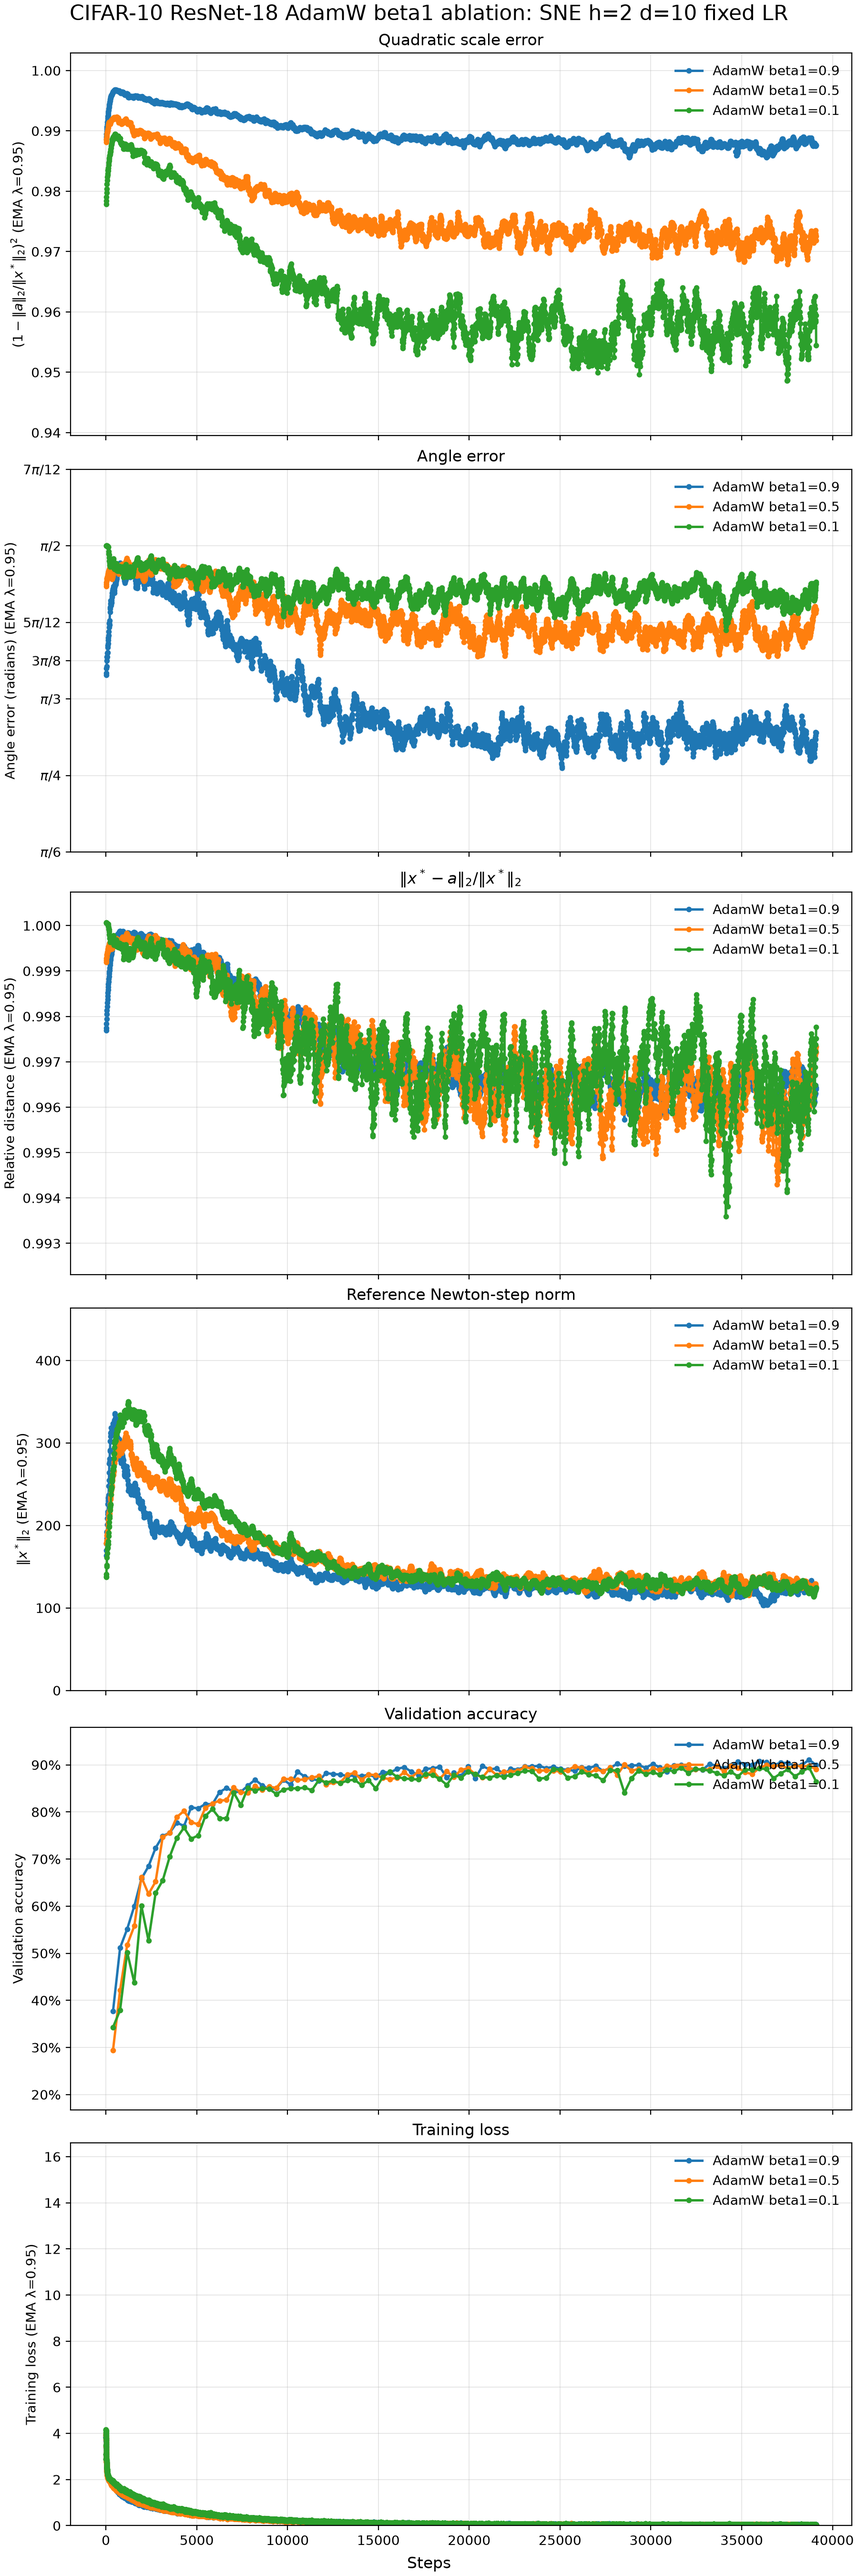
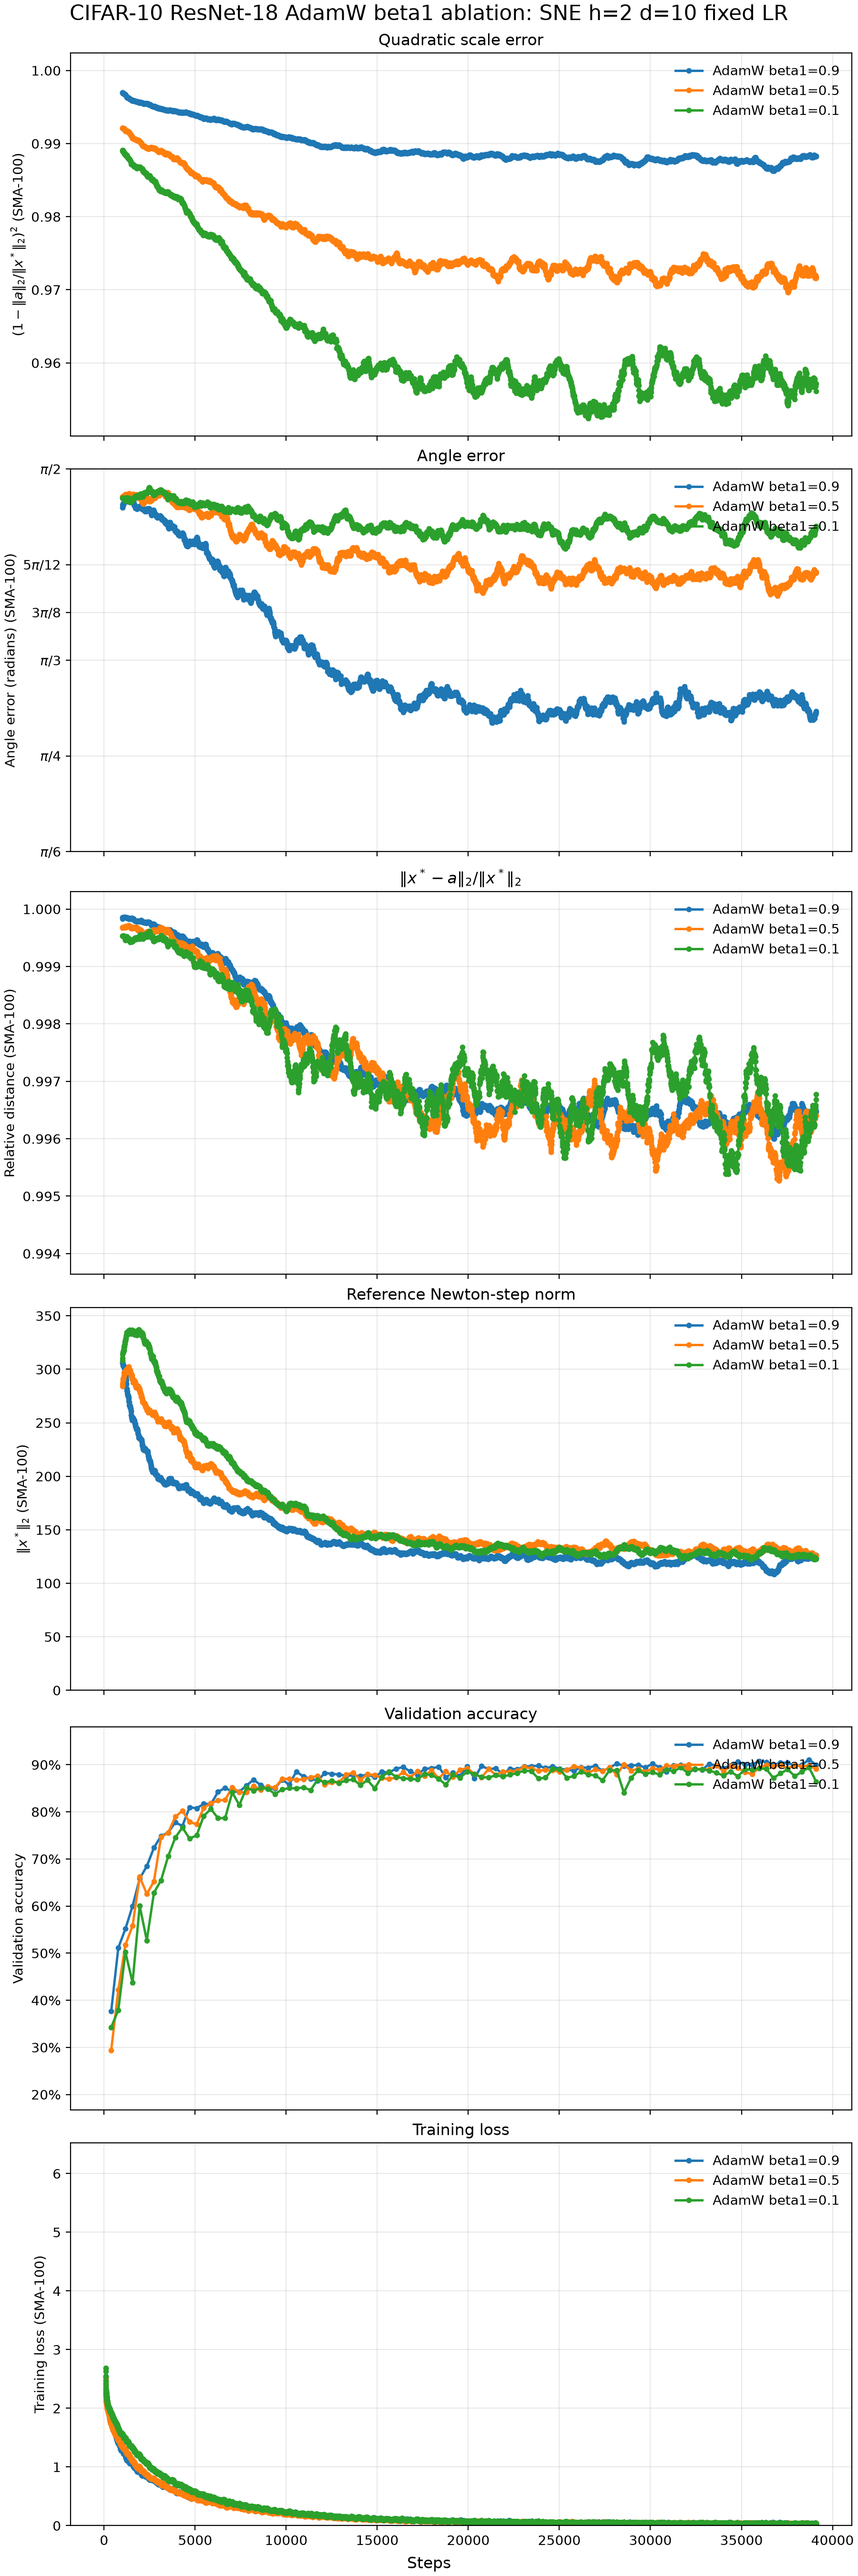
Restore SMA dashboard plots

diff --git a/index.html b/index.html
@@ -127,7 +127,7 @@
             per step and interval \(d=10\), hence sketch size \(m=20\). Training loss
             is recorded every step, the three geometric measurements every ten steps,
             and validation accuracy once per epoch. The geometric and training curves
-            use an EMA with \(\lambda=0.95\); validation remains unsmoothed. Scale is
+            use SMA-100; validation remains unsmoothed. Scale is
             reported exclusively as \((1-\|a\|_2/\|x^*\|_2)^2\).
           </p>
         </header>
@@ -217,7 +217,7 @@
             momentum changes, leaving the auxiliary AdamW path fixed; for AdamW the
             sweep changes \(\beta_1\) while \(\beta_2=0.999\); for SGD it changes the
             conventional momentum coefficient. SNE again uses \(h=2\), \(d=10\), and
-            \(m=20\), with EMA (\(\lambda=0.95\)) applied only to geometry and training loss and raw
+            \(m=20\), with SMA-100 applied only to geometry and training loss and raw
             validation accuracy retained at one observation per epoch.
           </p>
         </header>
@@ -317,7 +317,7 @@
             step, geometry every five steps, and validation cross-entropy over 200
             batches every 250 steps. The model remains in training mode while an RNG
             snapshot replays the forward-pass dropout realization inside estimator
-            closures. Geometry and training use EMA (\(\lambda=0.95\)), validation remains raw, and
+            closures. Geometry and training use SMA-50, validation remains raw, and
             both task losses are shown as perplexity. Scale error is
             \((1-\|a\|_2/\|x^*\|_2)^2\).
           </p>

diff --git a/scripts/build_dashboard_plots.py b/scripts/build_dashboard_plots.py
@@ -30,7 +30,7 @@ LANGUAGE_METRICS = (
     "train_losses",
 )
 MOVING_AVERAGE_TYPES = ("simple", "exponential")
-DEFAULT_MOVING_AVERAGE_TYPE = "exponential"
+DEFAULT_MOVING_AVERAGE_TYPE = "simple"
 DEFAULT_EMA_LAMBDA = 0.95
 NONNEGATIVE_METRICS = {
     "quadratic_scale_distances",
@@ -262,7 +262,7 @@ SECTIONS = (
         output_dir="assets/plots/language-modeling",
         figures=(shakespeare_comparison(),),
         metrics=LANGUAGE_METRICS,
-        window_size=100,
+        window_size=50,
         perplexity=True,
     ),
 )
@@ -376,15 +376,22 @@ def build(
 
     manifest: dict[str, object] = {
         "scale_error": "quadratic",
-        "simple_moving_average_window_size": window_size,
         "moving_average_type": moving_average_type,
-        "ema_lambda": ema_lambda,
-        "section_simple_window_sizes": {
-            section.name: section.window_size or window_size for section in SECTIONS
-        },
         "validation_smoothed": False,
         "sections": {},
     }
+    if moving_average_type == "simple":
+        manifest.update(
+            {
+                "simple_moving_average_window_size": window_size,
+                "section_simple_window_sizes": {
+                    section.name: section.window_size or window_size
+                    for section in SECTIONS
+                },
+            }
+        )
+    else:
+        manifest["ema_lambda"] = ema_lambda
     for section in SECTIONS:
         section_window_size = section.window_size or window_size
         limits, _ = shared_limits(
@@ -398,12 +405,16 @@ def build(
         output_dir.mkdir(parents=True, exist_ok=True)
         section_manifest = {
             "shared_y_limits": limits,
-            "simple_moving_average_window_size": section_window_size,
             "moving_average_type": moving_average_type,
-            "ema_lambda": ema_lambda,
             "perplexity": section.perplexity,
             "figures": [],
         }
+        if moving_average_type == "simple":
+            section_manifest["simple_moving_average_window_size"] = (
+                section_window_size
+            )
+        else:
+            section_manifest["ema_lambda"] = ema_lambda
         for figure in section.figures:
             paths = figure.csv_paths(optibench_root)
             output = plot_optimizer_comparison(

diff --git a/README.md b/README.md
@@ -14,11 +14,10 @@ The builder computes each row's limits from every curve in its section after
 that section's configured moving average, then supplies those same limits to every
 separate six-row figure. It writes the exact source paths and numeric limits to
 `assets/plots/manifest.json`. Validation curves remain unsmoothed, and scale
-error is always quadratic. Exponential moving average is the default and uses
-the directly specified decay `lambda = 0.95`; it is independent of window
-size. Simple trailing moving average remains selectable and uses the configured
-100-sample window. The character-level Shakespeare section displays task
-losses as perplexity.
+error is always quadratic. Complete-window trailing simple moving average is
+the default: CIFAR sections use SMA-100 and the character-level Shakespeare
+section uses SMA-50 and displays task losses as perplexity. Exponential moving
+average remains selectable with a directly specified decay.
 
 The figures used by the original dashboard are retained verbatim under
 `assets/archive/legacy-plots/` and are not referenced by the active page.
